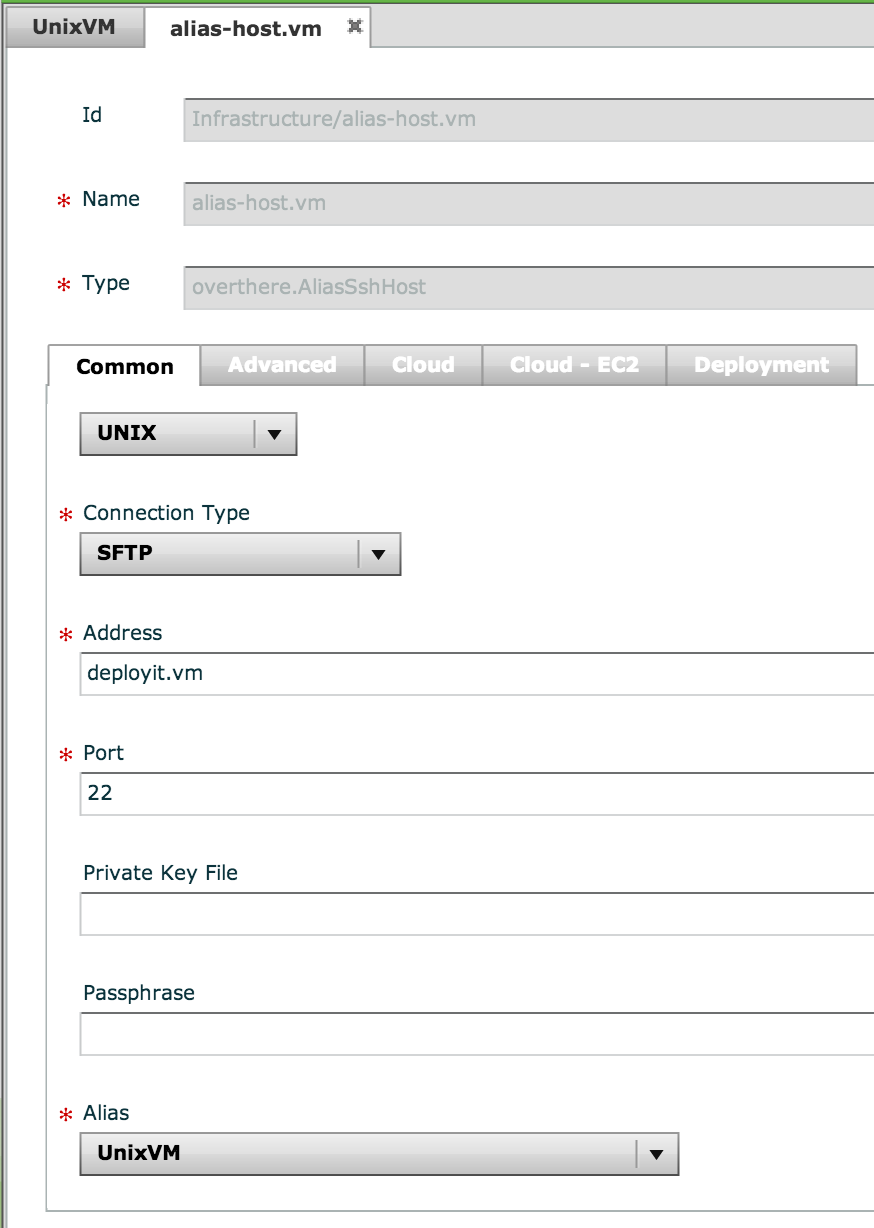
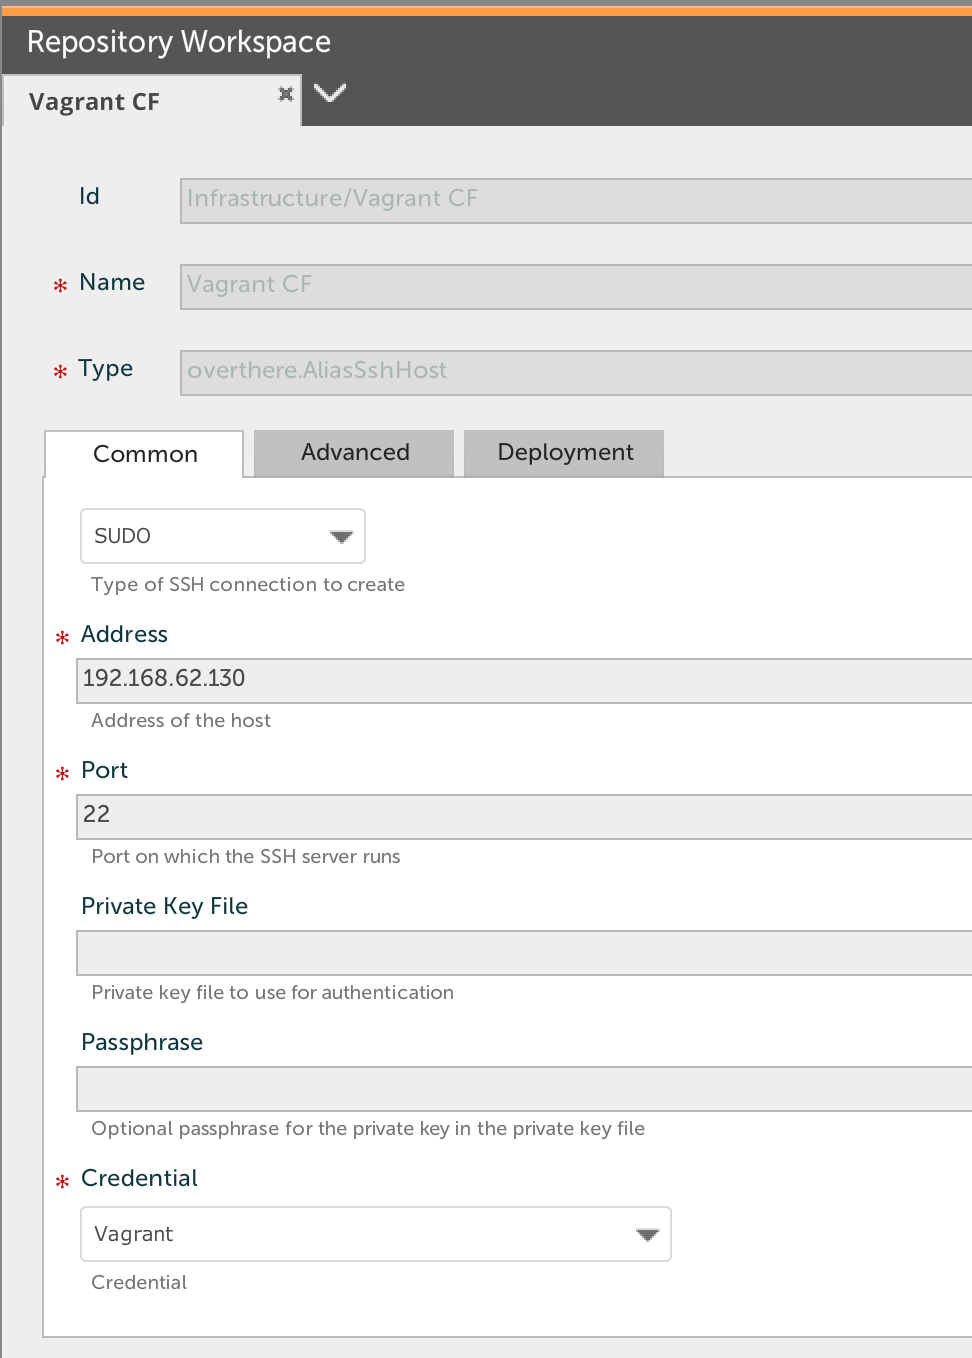
Updated images

Changed region(s): [[0.0, 0.0, 1.0, 1.0]]

diff --git a/README.md b/README.md
@@ -17,7 +17,7 @@ Place the plugin JAR file into your `SERVER_HOME/plugins` directory.
 
 The `checkConnection` property on the udm.DeployedApplication type offers to generate CheckConnection Step on all the credential hosts..
 
-![Configuration] (/img/alias.png)
+![Configuration] (/img/credential.png)
 
 
 ![Configured Host] (/img/aliasHost.png)
